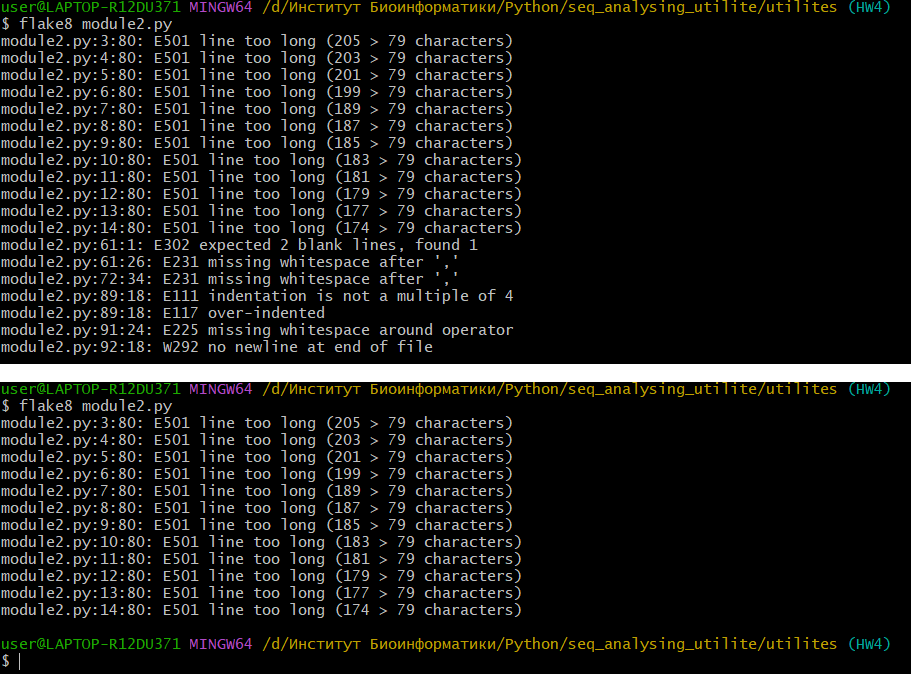
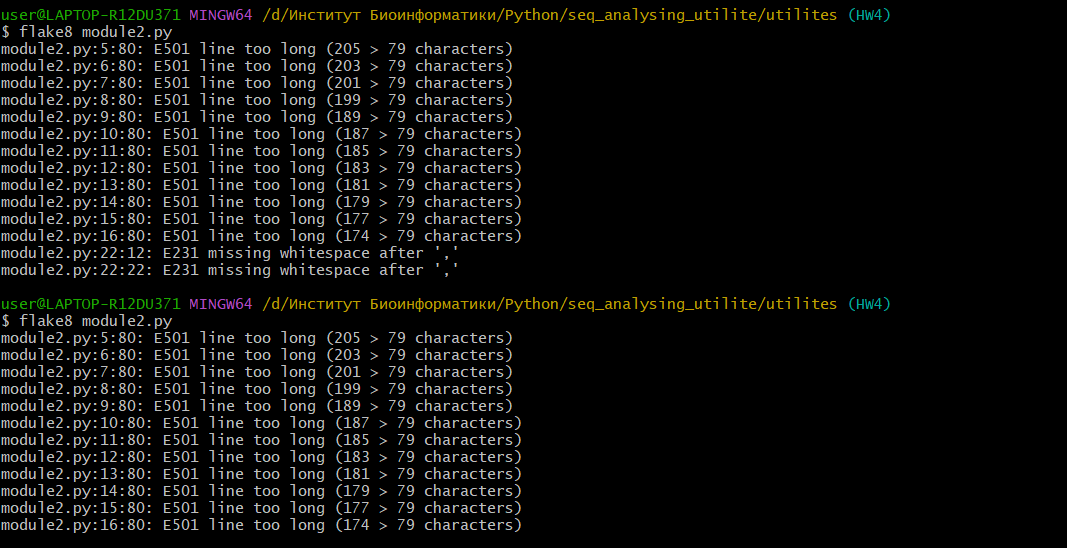
Update the main func and add flake8*.png

Changed region(s): [[0.0, 0.0, 1.0, 0.9927]]

diff --git a/seq_analysing_utilite.py b/seq_analysing_utilite.py
@@ -1,0 +1,79 @@
+from utilites.module1 import transcribe, complement, reverse, reverse_complement, gc_cont
+from utilites.module2 import seqs, gc_bounds_12, length_bounds_12, quality_threshold_12
+from typing import Dict, Union, Tuple, List
+
+
+def run_dna_rna_tools(*args: Union[str, str]) -> Union[str, List[str]]:
+    """
+    run_dna_rna_tools takes as input seq and operations for analysing and doing some actions with nucleotides.
+
+    Args
+    seq is a any str. You can use any count of seq and choose either upper or lower cases.
+    seq must be a DNA or RNA sequence. if you will use T and U in the same seq, run_dna_rna_tools gives you an error.
+    operation is an actions for seq.
+    operation must be "transcribe", "complement", "reverse", "reverse_complement" or "gc_cont". Otherwise run_dna_rna_tools backs with the error.
+
+    Returns
+    [str] of nucleotide after operations.
+    """
+
+    seq = args[:-1]
+    operation = args[-1]
+    dna_tools_res = []
+    for s in seq:
+        if ("T" in s or "t" in s) and ("U" in s or "u" in s):
+            return "Error"
+    if operation == "transcribe":
+        fn = transcribe
+    elif operation == "complement":
+        fn = complement
+    if operation == "reverse":
+        fn = reverse
+    elif operation == "reverse_complement":
+        fn = reverse_complement
+    elif operation == "gc_cont":
+        fn = gc_cont
+    for s in seq:
+        result = fn(s)
+        dna_tools_res.append(result)
+    return dna_tools_res if len(dna_tools_res) > 1 else dna_tools_res[0]
+
+
+def filter_fastq(seqs: Dict[str, Tuple[str, str]], **params) -> Dict[str, tuple[str, str]]:
+    """
+    filter_fastq takes as input a dict with fastq as keys, sequence as a value[0], phred code as a value[1] and operations for analysing of fastq in dict.
+
+    Args
+    seqs are dict named as seqs in module2.py
+    **params are operations for analysing fastq from seqs
+
+    Returns
+    Dict of fastqs that suit for conditionals in operation.
+    """
+    result = {}
+    if params.get("gc_bounds") is None:
+        gc_bounds = (0.0, 100.0)
+    else: gc_bounds = params.get("gc_bounds")
+    if params.get("quality_threshold") is None:
+        quality_threshold = 0
+    else: quality_threshold = params.get("quality_threshold")
+    if params.get("length_bounds") is None:
+        length_bounds = (0, 2**32)
+    else: length_bounds = params.get("length_bounds")
+
+    gc_res = gc_bounds_12(seqs)
+    length_res = length_bounds_12(seqs)
+    quality_res = quality_threshold_12(seqs)
+
+    for key, (sequence, quality) in seqs.items():
+        gc = gc_res.get(key)
+        if gc is None or not (gc_bounds[0] <= gc <= gc_bounds[1]):
+            continue
+        length = length_res.get(key)
+        if length is None or not (length_bounds[0] <= length <= length_bounds[1]):
+            continue
+        current_quality = quality_res.get(key)
+        if current_quality is None or not (quality_threshold < current_quality):
+            continue
+        result[key] = (sequence, quality)
+    return result

diff --git a/utilites/module2.py b/utilites/module2.py
@@ -1,3 +1,5 @@
+from typing import Tuple, Dict, Any
+
 seqs = {
     # 'name' : ('sequence', 'quality')
     '@SRX079801': ('ACAGCAACATAAACATGATGGGATGGCGTAAGCCCCCGAGATATCAGTTTACCCAGGATAAGAGATTAAATTATGAGCAACATTATTAA', 'FGGGFGGGFGGGFGDFGCEBB@CCDFDDFFFFBFFGFGEFDFFFF;D@DD>C@DDGGGDFGDGG?GFGFEGFGGEF@FDGGGFGFBGGD'),
@@ -14,80 +16,27 @@ seqs = {
     '@SRX079812': ('AGTGAGACACCCCTGAACATTCCTAGTAAGACATCTTTGAATATTACTAGTTAGCCACACTTTAAAATGACCCG', '<98;<@@@:@CD@BCCDD=DBBCEBBAAA@9???@BCDBCGF=GEGDFGDBEEEEEFFFF=EDEE=DCD@@BBC')
     }
 
-phred = {
-    '!': 0,
-    '"': 1,
-    '#': 2,
-    '$': 3,
-    '%': 4,
-    '&': 5,
-    "'": 6,
-    '(': 7,
-    ')': 8,
-    '*': 9,
-    '+': 10,
-    ',': 11,
-    '-': 12,
-    '.': 13,
-    '/': 14,
-    '0': 15,
-    '1': 16,
-    '2': 17,
-    '3': 18,
-    '4': 19,
-    '5': 20,
-    '6': 21,
-    '7': 22,
-    '8': 23,
-    '9': 24,
-    ':': 25,
-    ';': 26,
-    '<': 27,
-    '=': 28,
-    '>': 29,
-    '?': 30,
-    '@': 31,
-    'A': 32,
-    'B': 33,
-    'C': 34,
-    'D': 35,
-    'E': 36,
-    'F': 37,
-    'G': 38,
-    'H': 39,
-    'I': 40
-}
 
-
-def gc_bounds(gc_low: int, gc_high: int):
+def gc_bounds_12(*args: Tuple[float, float]) -> float:
     result = {}
-    for key, values in seqs.items():
-        G_count = values[0].count("G")
-        C_count = values[0].count("C")
-        gc_content = ((G_count + C_count) / len(values[0])) * 100
-        if gc_low <= gc_content <= gc_high:
-            result[key] = values
+    for key, (sequence, quality) in seqs.items():
+        gc = sequence.count("G") + sequence.count("C")
+        gc_cont = gc / len(sequence) * 100
+        result[key] = gc_cont
     return result
 
 
-def length_bounds(length_low: int, length_high: int):
+def length_bounds_12(*args: Tuple[int, int]) -> int:
     result = {}
-    for key, values in seqs.items():
-        len_seq = len(values[0])
-        if len_seq >= length_low and len_seq <= length_high:
-            result[key] = values
+    for key, (sequence, quality) in seqs.items():
+        len_seq = len(sequence)
+        result[key] = len_seq
     return result
 
 
-def quality_threshold(quality: int):
+def quality_threshold_12(int) -> str:
     result = {}
-    for key, values in seqs.items():
-        q_seq = 0
-        for s in values[1]:
-            if s in phred:
-                q_seq += phred[s]
-            else:
-                q_seq += 0
-        if quality <= q_seq:
-            result[key] = values
+    for key, (sequence, quality) in seqs.items():
+        q_score = (sum(ord(q)-33 for q in quality)/len(quality))
+        result[key] = q_score
     return result

diff --git a/utilites/module1.py b/utilites/module1.py
@@ -50,11 +50,11 @@ def transcribe(seq: list[str]):
     return "".join([rules[c] for c in seq])
 
 
-def reverse(seq: list[str]):
+def reverse(seq: [str]):
     return seq[::-1]
 
 
-def complement(seq: list[str]):
+def complement(seq: [str]):
     if 'U' in seq or 'u' in seq:
         rules = complimentary_rules_RNA
     else:
@@ -66,12 +66,12 @@ def complement(seq: list[str]):
     return result
 
 
-def reverse_complement(seq: list[str]):
+def reverse_complement(seq: [str]):
     result = reverse(complement(seq))
     return result
 
 
-def gc_cont(seq: list[str]):
+def gc_cont(seq: [str]):
     an_seq = seq.upper()
     g_count = an_seq.count("G")
     c_count = an_seq.count("C")
